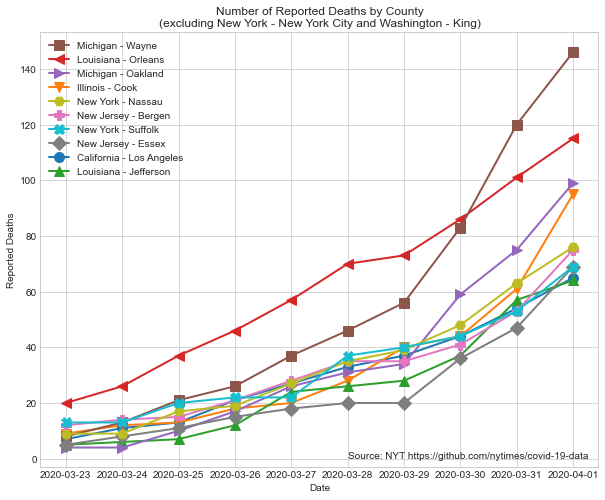
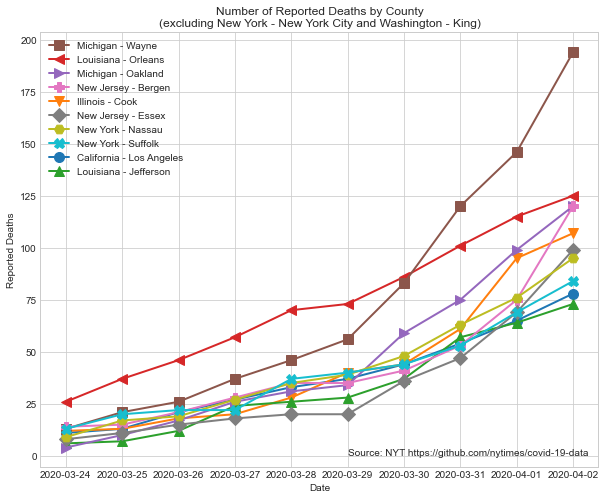
update plots for 4/2

diff --git a/README.md b/README.md
@@ -1,26 +1,28 @@
 # Coronavirus in the U.S.
 
+Updated with 4/2 data
+
 ## Counties with the most deaths
 
-This plot shows the number of reported Covid-19 deaths for the ten counties with the highest counts, excluding New York City and King County, WA. NYC has 900+ deaths, while King County has 160+. 
+This plot shows the number of reported Covid-19 deaths for the ten counties with the highest counts, excluding New York City and King County, WA. NYC has 1,500+ deaths, while King County has 170+. 
 
 ![county_deaths](plots/county_deaths.png)
 
 ## States with the most deaths
 
-This plot shows the number of reported Covid-19 deaths for the ten states with the highest counts, excluding New York, which has 1,900+ deaths. 
+This plot shows the number of reported Covid-19 deaths for the ten states with the highest counts, excluding New York, which has 2,600+ deaths. 
 
 ![state_deaths](plots/state_deaths.png)
 
 ## Counties with the most cases
 
-This plot shows the number of reported Covid-19 cases for the ten counties with the highest counts, excluding New York City, which has 47,000+ cases. 
+This plot shows the number of reported Covid-19 cases for the ten counties with the highest counts, excluding New York City, which has 51,000+ cases. 
 
 ![county_cases](plots/county_cases.png)
 
 ## States with the most cases
 
-This plot shows the number of reported Covid-19 cases for the ten states with the highest counts, excluding New York, which has 83,000+ cases. 
+This plot shows the number of reported Covid-19 cases for the ten states with the highest counts, excluding New York, which has 92,000+ cases. 
 
 ![state_cases](plots/state_cases.png)
 
